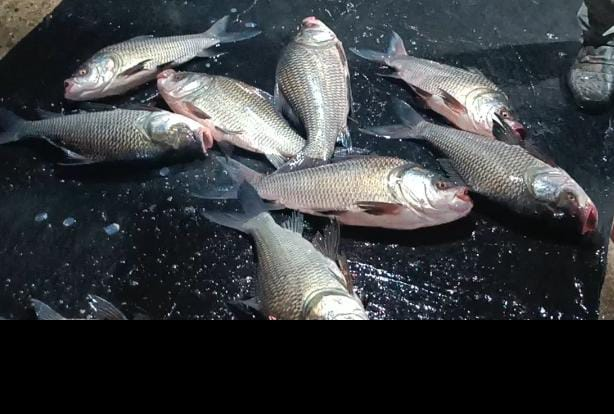
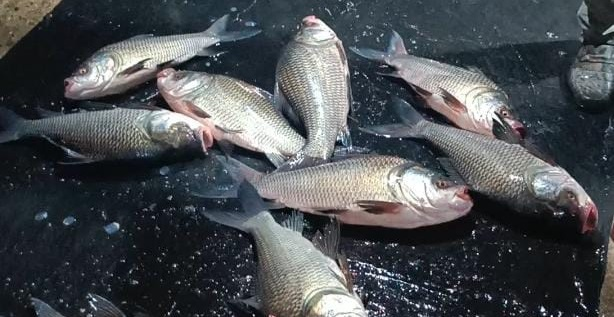
n

diff --git a/all_product.php b/all_product.php
@@ -93,15 +93,15 @@ include_once("includes/head.php");
                                             
                                             <h4 class="product-title"><a href="single_product.php?status=singleproduct&&id=<?php echo $pdt_data['pdt_id'] ?>" class="pr-name"><?php echo $pdt_data['pdt_name'] ?></a></h4>
                                             <div class="price">
-                                                <ins><span class="price-amount"><span class="currencySymbol">Tk. </span><?php echo $pdt_data['pdt_price'] ?></span></ins>
+                                                <ins><span class="price-amount"><span class="currencySymbol">Rs. </span><?php echo $pdt_data['pdt_price'] ?></span></ins>
 
                                             </div>
                                             <div class="shipping-info">
-                                                <p class="shipping-day">3-Day Shipping</p>
+                                                <p class="shipping-day">Same Day Shipping</p>
                                                 <p class="for-today">Pree Pickup Today</p>
                                             </div>
                                             <div class="slide-down-box">
-                                                <p class="message">All products are carefully selected to ensure food safety.</p>
+                                                <p class="message">All products are carefully selected to ensure fish safety.</p>
                                                
                                             </div>
                                         </div>
